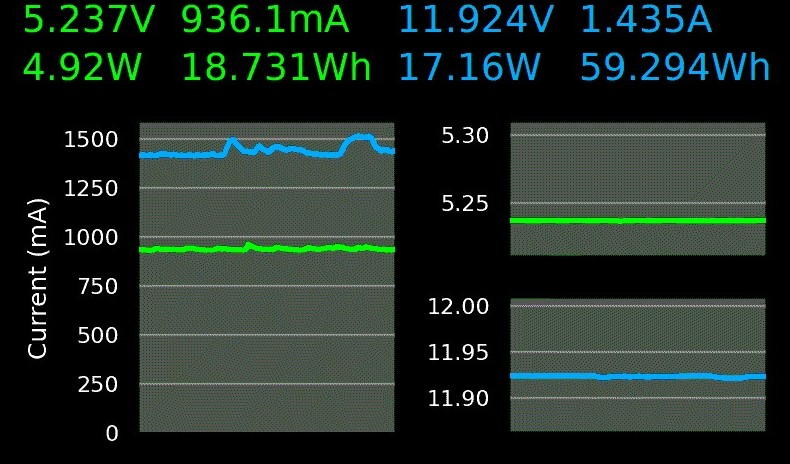
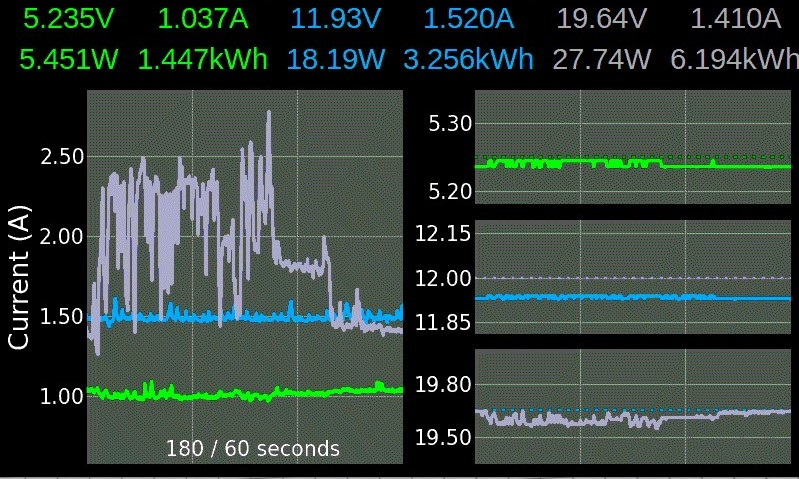
update

diff --git a/setup.py b/setup.py
@@ -1,0 +1,33 @@
+#
+# Author: sascha_lammers@gmx.de
+#
+
+import setuptools
+
+with open("README.md", "r") as fh:
+    long_description = fh.read()
+
+setuptools.setup(
+    name='INA3221 Power Monitor',
+    version="0.0.1.2",
+    author="Sascha Lammers",
+    author_email="sascha_lammers@gmx.de",
+    packages=setuptools.find_packages(),
+    url='https://github.com/sascha432/RPi.power-monitor',
+    description='Power Monitor for the INA3221 sensor with headless mode, TCP server/client and tkinter GUI running on Linux/Raspberry Pi and Windows',
+    # long_description=open('README.md').read(),
+    install_requires=[
+        "numpy>=1.19.4",
+        "smbus>=1.1.post2",
+        "matplotlib>=3.3.1",
+        "commentjson>=0.9.0",
+        "paho-mqtt>=1.5.1",
+        "colorlog>=4.6.2",
+        "influxdb>=5.3.1",
+        "beeprint>=2.4.10"
+    ],
+    # dependency_links=[
+    #     "git+git://github.com/Peter92/unit-convert.git"
+    # ],
+    include_package_data=True,
+)

diff --git a/README.md b/README.md
@@ -14,6 +14,8 @@ Power Monitor for the INA3221 sensor.
 
 ![GUI](https://raw.githubusercontent.com/sascha432/RPI.power-monitor/master/images/power_monitor1.jpg)
 
+![GUI](https://raw.githubusercontent.com/sascha432/RPI.power-monitor/master/images/power_monitor2.jpg)
+
 ![Home Assistant Dashboard](https://raw.githubusercontent.com/sascha432/RPI.power-monitor/master/images/homeassistant.jpg)
 
 The INA3221 board is from aliexpress and turned out to be wired with common VCC. It required major rework. Take a close look to get the correct one.
@@ -136,9 +138,10 @@ optional arguments:
 
 ### Touch events
 
+- Top labels: Display/hide channel
 - Left center to bottom: Toggle displayed plots (Main plot, voltage)
 - Right center to bottom: Toggle main plot from (Current, power and aggregated power)
-- Top right and left corner: Increase/decrease displayed timeframe
+- Top right and left corner below the labels: Increase/decrease displayed timeframe
 
 ### Default keyboard shortcuts
 
